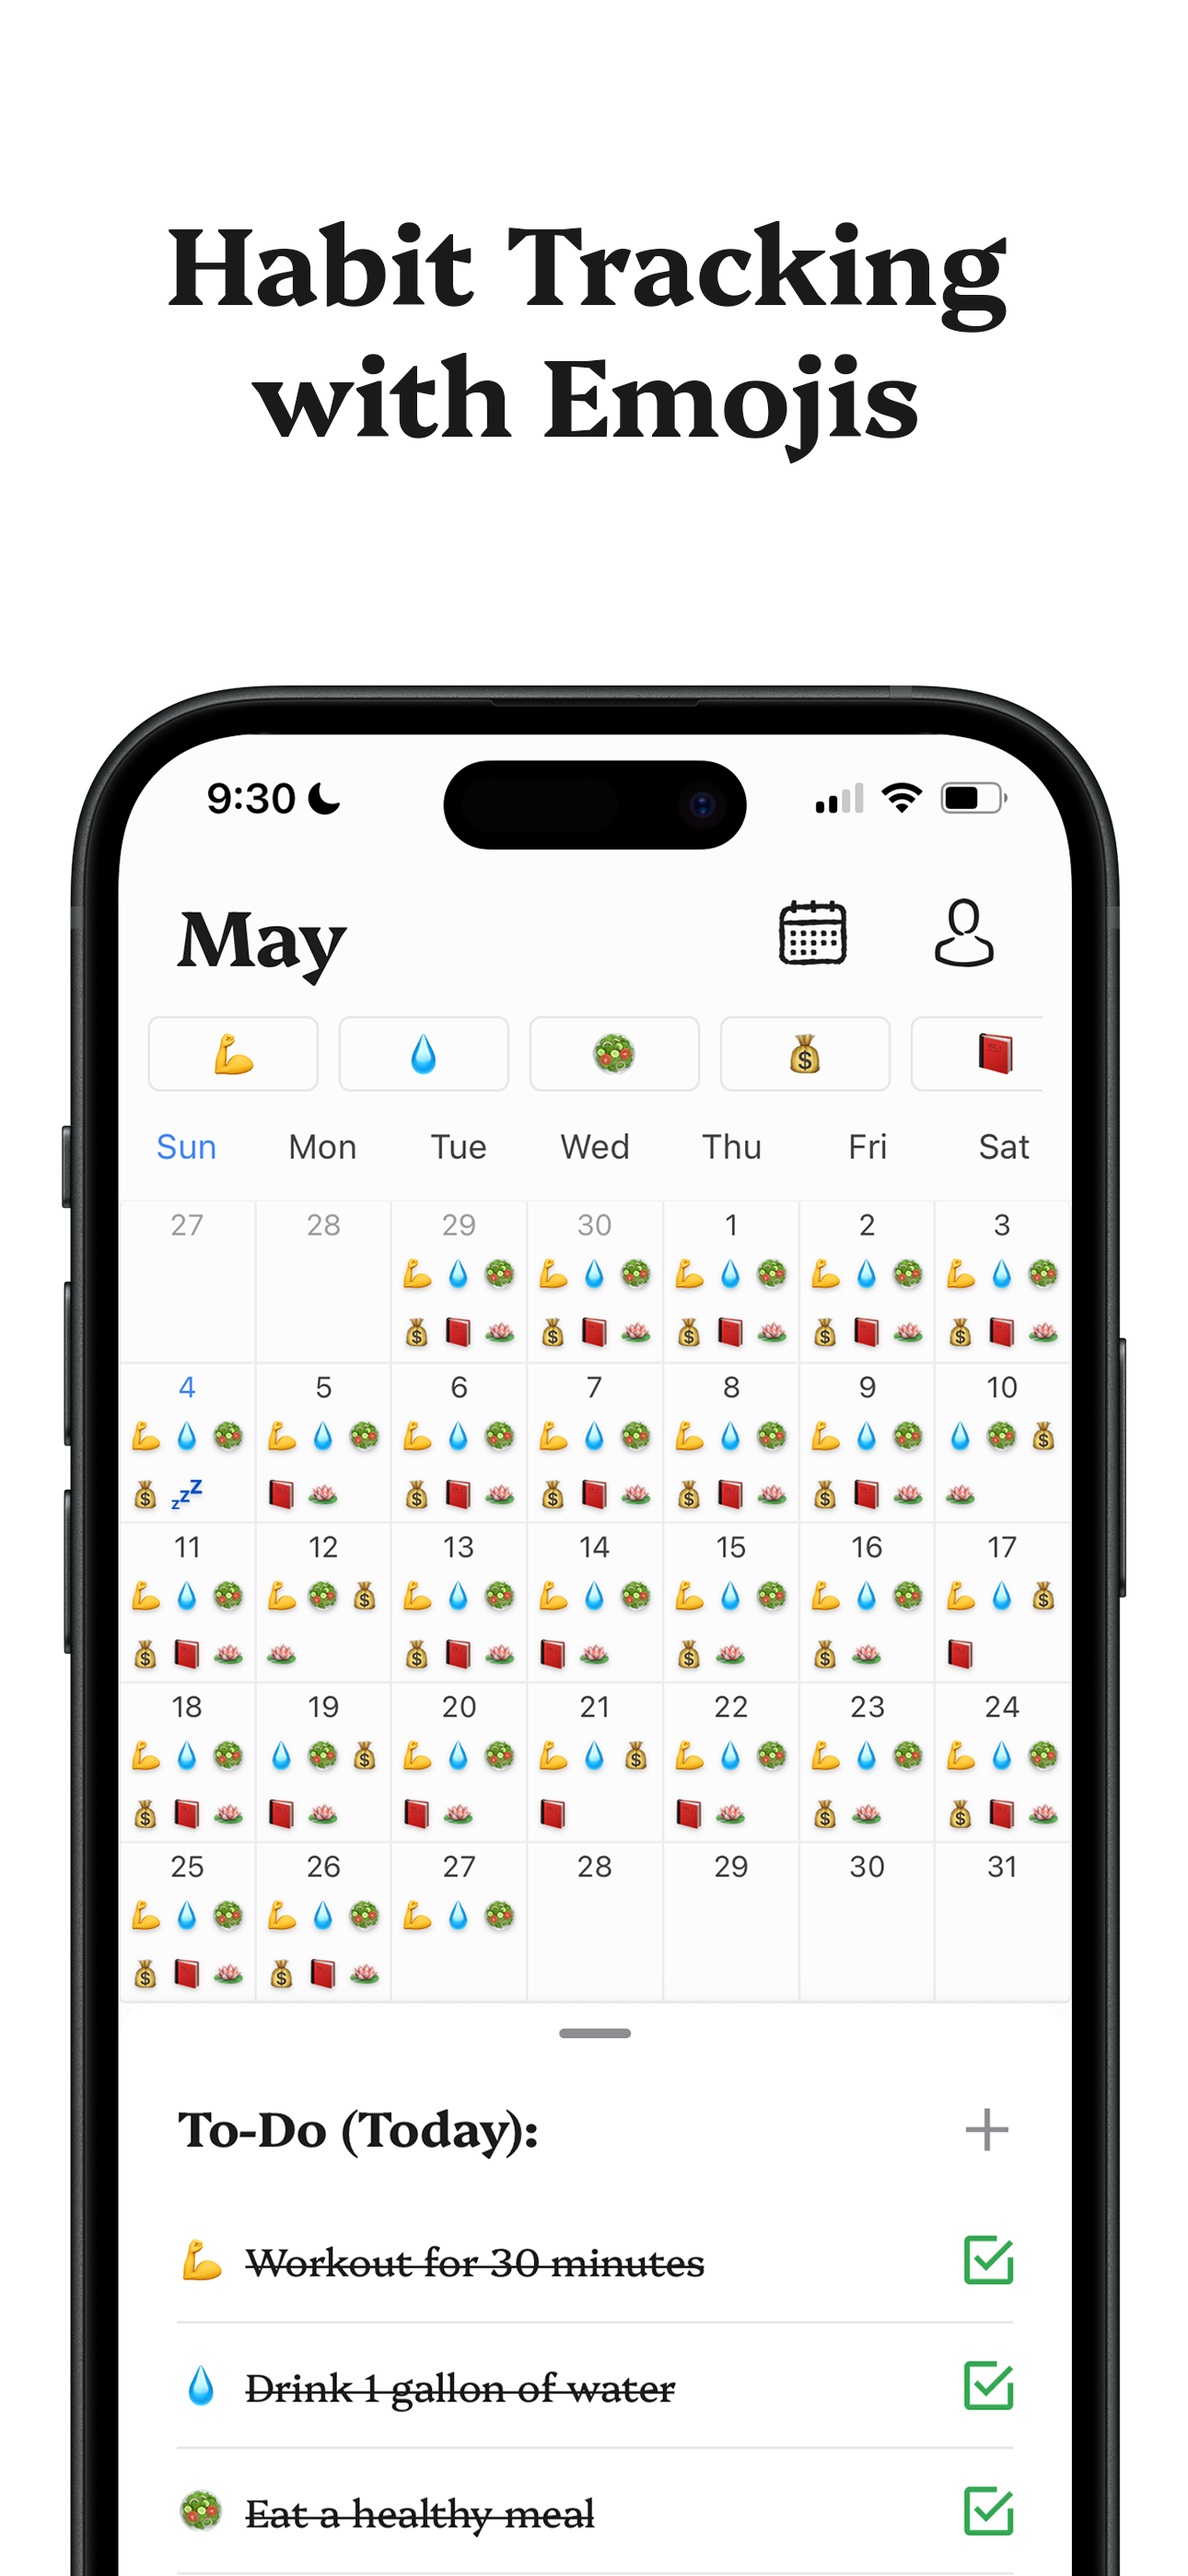
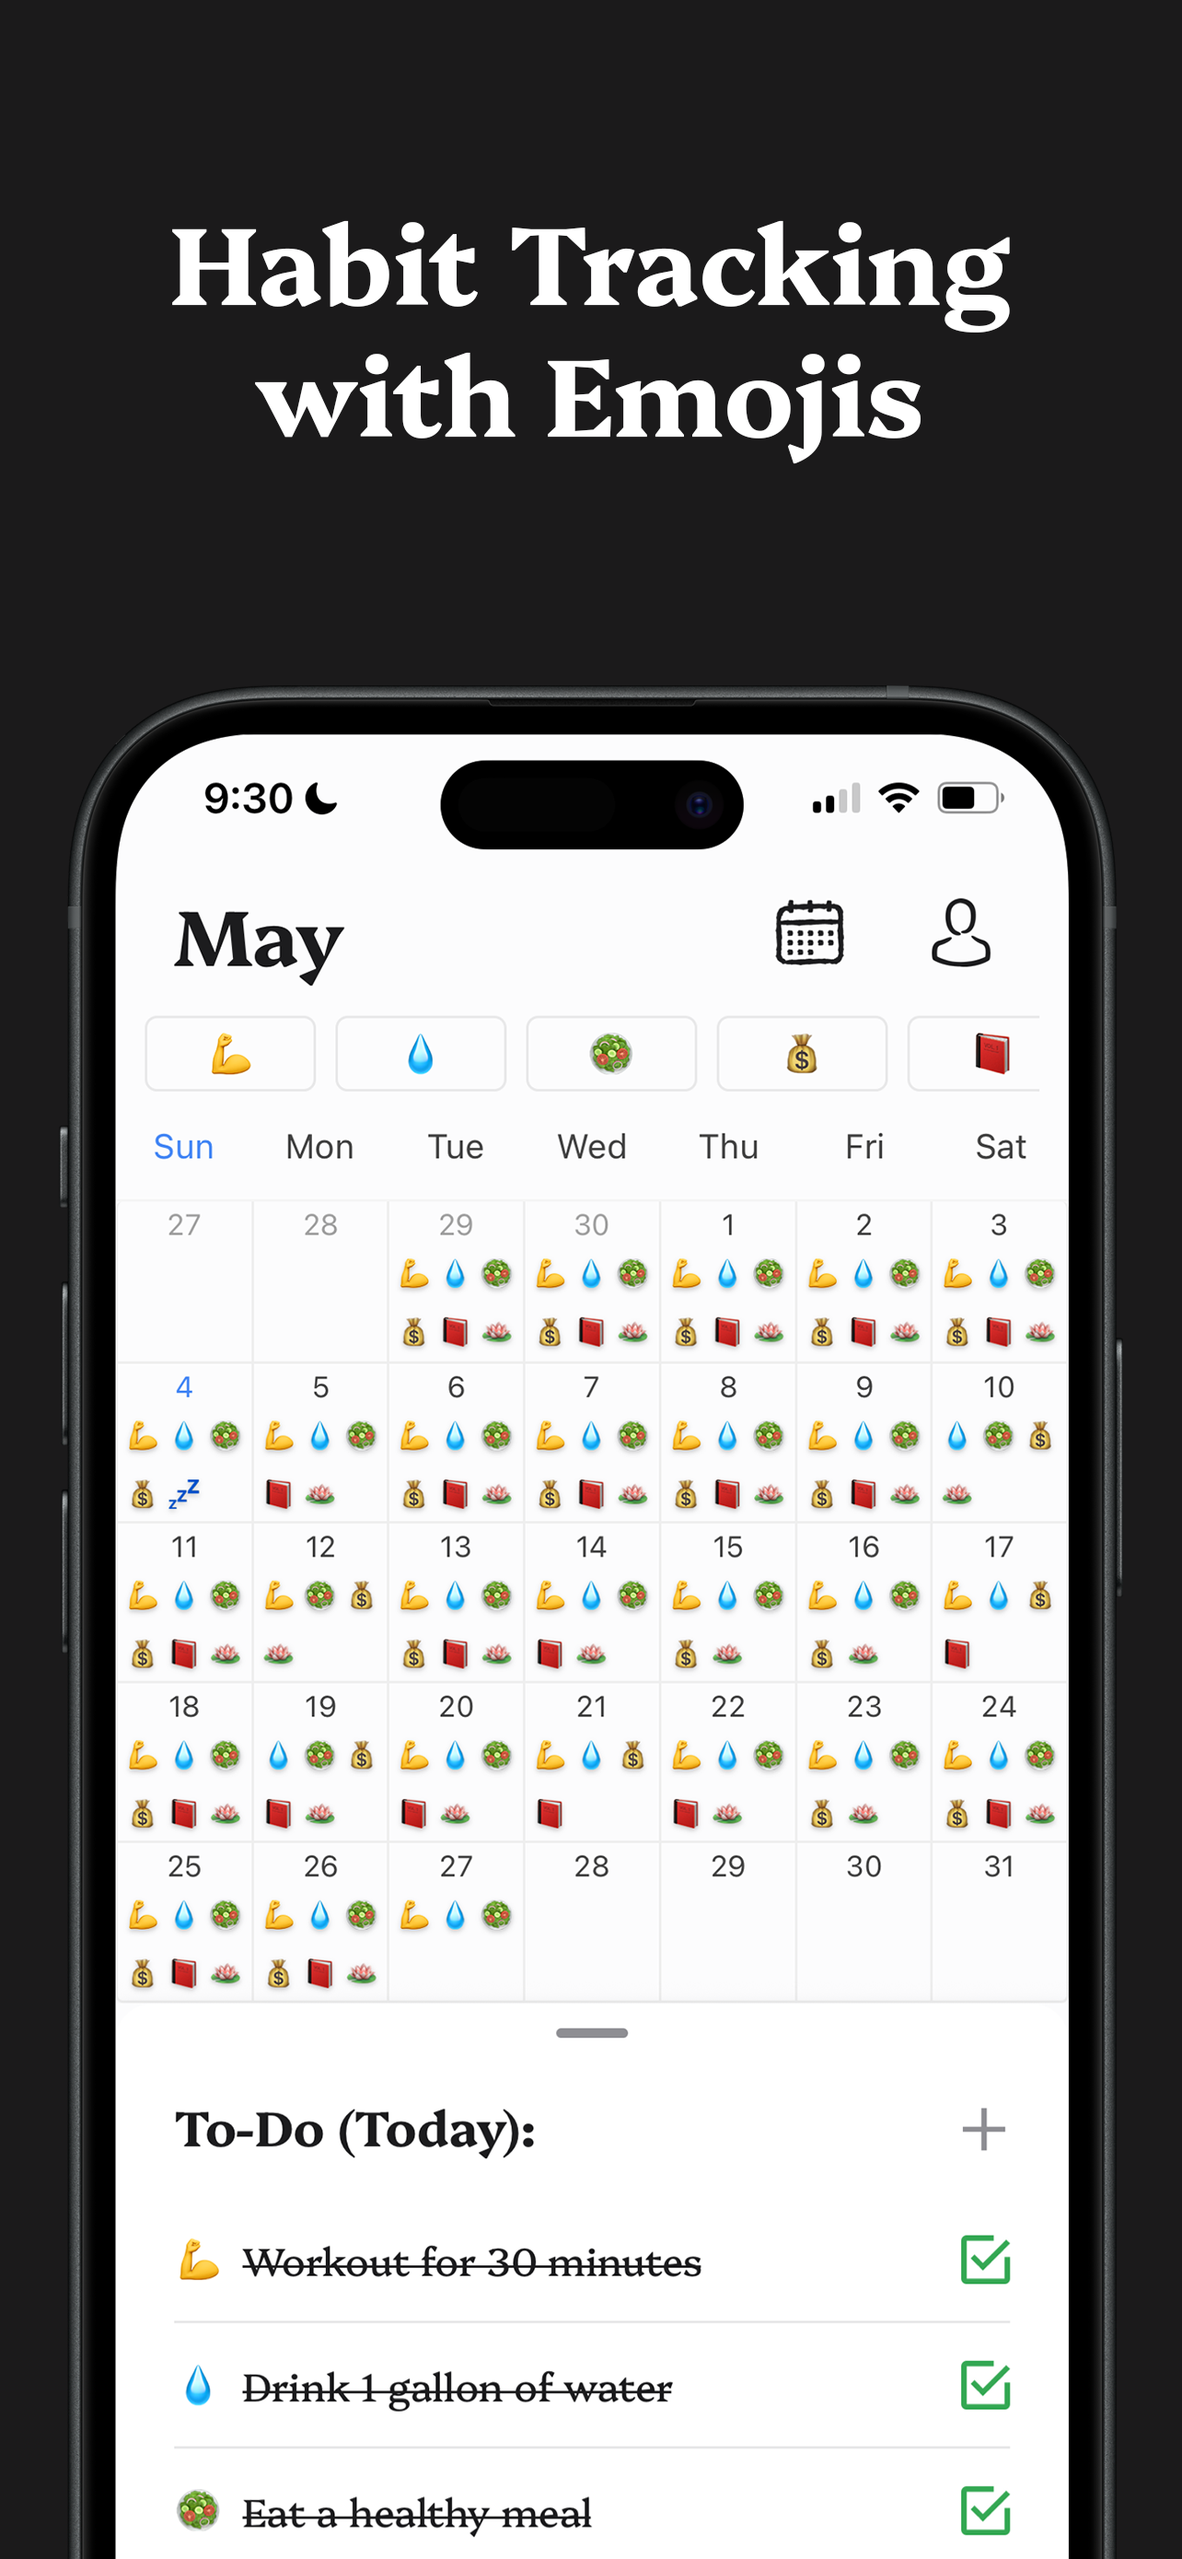
minor change

diff --git a/static/css/index.css b/static/css/index.css
@@ -85,7 +85,9 @@ body {
   box-shadow: 0 4px 6px rgba(0, 0, 0, 0.1);
   cursor: pointer;
   z-index: 1000;
-  transition: transform 0.3s, box-shadow 0.3s;
+  transition:
+    transform 0.3s,
+    box-shadow 0.3s;
 }
 
 .fab:hover {
